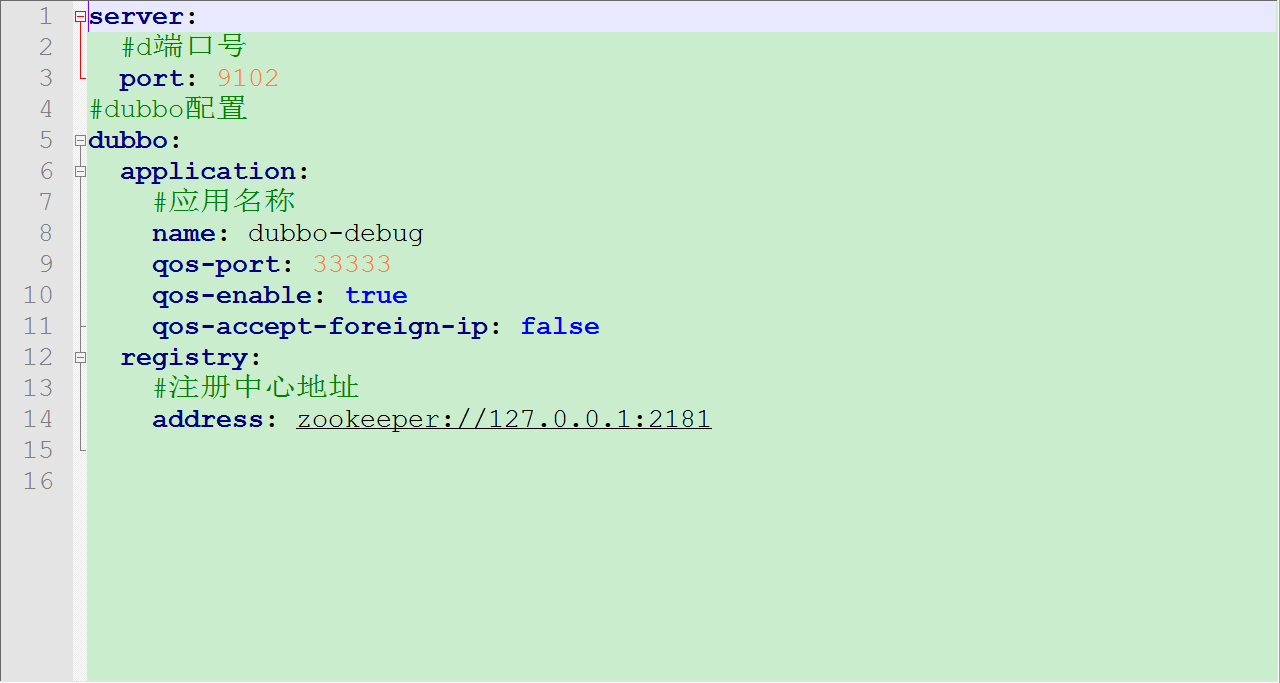
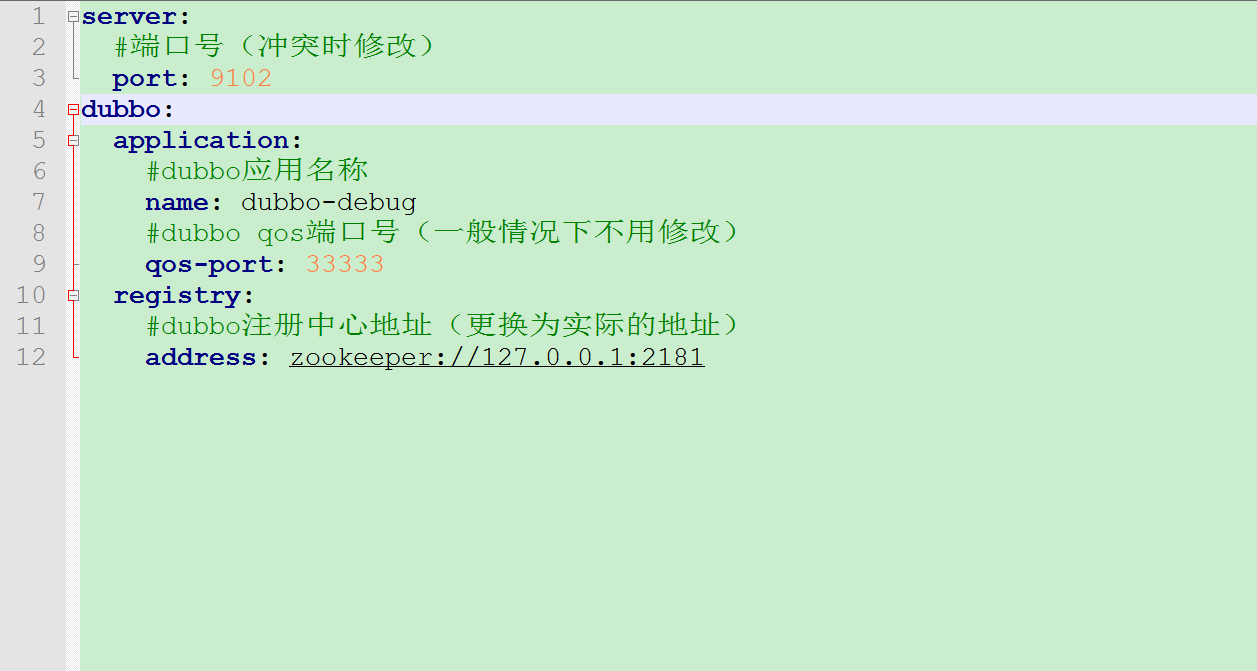
refactor(com.dubbo.debug): 调整

Changed region(s): [[0.0, 0.0, 1.0, 1.0], [0.3723, 0.3279, 0.5895, 0.3577]]

diff --git a/src/main/java/com/dubbo/debug/service/impl/DubboDebugServiceImpl.java b/src/main/java/com/dubbo/debug/service/impl/DubboDebugServiceImpl.java
@@ -22,7 +22,7 @@ import org.springframework.stereotype.Service;
 public class DubboDebugServiceImpl implements DubboDebugService {
 
     /**
-     * 应用mingc
+     * 应用名称
      */
     @Value("${dubbo.application.name}")
     private String appName;
@@ -43,7 +43,6 @@ public class DubboDebugServiceImpl implements DubboDebugService {
         if (param.getTypes() == null) {
             param.setTypes(new String[] {});
         }
-
         if (param.getArgs() == null) {
             param.setArgs(new Object[] {});
         }
@@ -51,7 +50,11 @@ public class DubboDebugServiceImpl implements DubboDebugService {
         ReferenceConfig<GenericService> reference = new ReferenceConfig<>();
         reference.setGeneric(true);
         reference.setApplication(new ApplicationConfig(appName));
+        String version = param.getVersion();
         reference.setInterface(param.getService());
+        if (StringUtils.isNotEmpty(version)) {
+            reference.setVersion(version);
+        }
 
         RegistryConfig registry = new RegistryConfig();
         registry.setAddress(registryAddress);
@@ -60,6 +63,10 @@ public class DubboDebugServiceImpl implements DubboDebugService {
         // 获取缓存中的实例
         ReferenceConfigCache cache = ReferenceConfigCache.getCache();
         GenericService genericService = cache.get(reference);
+        if (genericService == null) {
+            cache.destroy(reference);
+            throw new IllegalStateException("服务不可用");
+        }
         return genericService.$invoke(param.getMethod(), param.getTypes(), param.getArgs());
     }
 

diff --git a/src/main/java/com/dubbo/debug/param/DubboDebugParam.java b/src/main/java/com/dubbo/debug/param/DubboDebugParam.java
@@ -22,6 +22,11 @@ public class DubboDebugParam {
     private String method;
 
     /**
+     * 版本号
+     */
+    private String version;
+
+    /**
      * 参数类型
      */
     private String[] types;

diff --git a/README.md b/README.md
@@ -2,7 +2,29 @@
 ## dubbo接口调试工具
 ### 一、功能
    使用http请求的方式调用dubbo接口（泛化调用），可用于dubbo接口调试。
-### 二、使用
+### 二、使用（项目模式）
+#### 默认请求地址为：127.0.0.1:9102/dubbo/debug
 #### 1.克隆或下载到本地（JDK为1.8+版本）
 按需修改application.yml配置，端口号有冲突时修改，注册中心地址修改为实际的地址
 ![](images/application.png)
+#### 2.切换到项目中
+2.1 运行命令mvn clean package进行打包
+2.2 打包完成之后再运行命令mvn spring-boot:run启动项目
+2.3 http请求格式（参考例子）
+```java
+{
+    "service": "com.example.api.UserService",
+    "method": "queryUser",
+    "types": [
+        "com.example.param.RequestParam"
+    ],
+    "args": [
+        {
+            "name": "admin"
+        }
+    ]
+}
+```
+### 三、使用（安装包模式）
+#### 默认请求地址为：127.0.0.1:9102/dubbo/debug
+#### 下载dubbo-debug-setup.exe并安装后在文件夹里点击dubbo-debug.exe运行即可
